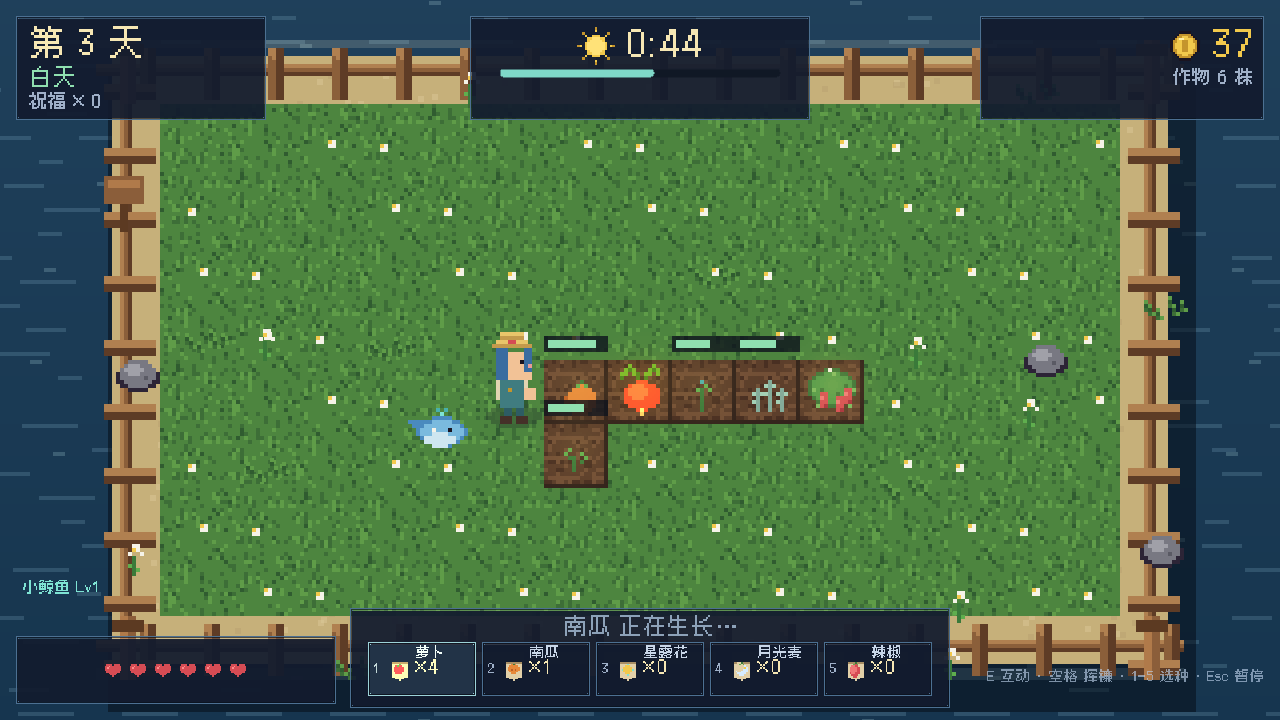
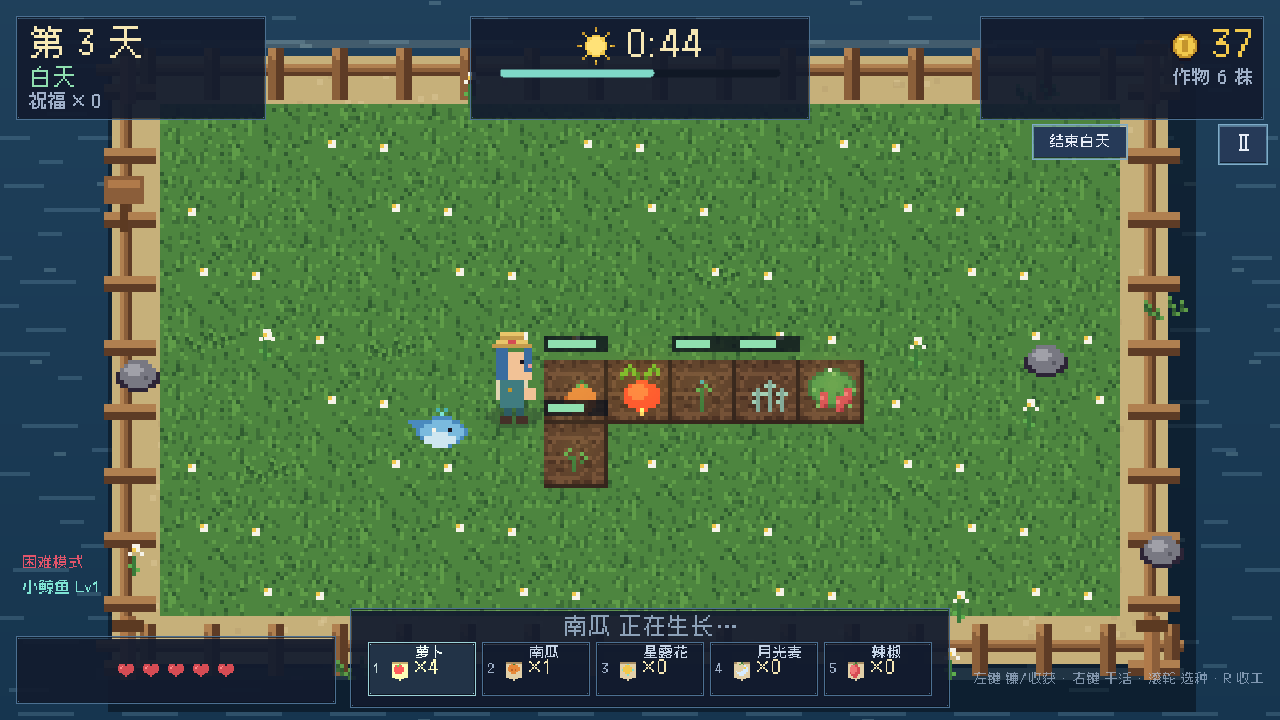
v2.3.0: difficulty modes, hard by default, stronger enemy scaling

diff --git a/README.md b/README.md
@@ -78,12 +78,26 @@
 - **右上「Ⅱ」**：暂停；系统返回键同样打开暂停/继续。
 - 游戏锁定横屏；16:9 内容居中，超宽屏两侧留黑边。
 
+## 难度
+
+标题界面的「难度」按钮循环切换，默认 **困难**：
+
+| 难度 | 初始生命 | 初始金币 | 敌人生命 | 敌人速度 | 夜潮数量 | 刷怪间隔 | 海鸥频率 |
+| --- | --- | --- | --- | --- | --- | --- | --- |
+| 休闲 | 7 | 22 | ×0.90 | ×0.95 | ×0.85 | ×1.15 | ×1.30 |
+| 标准 | 6 | 18 | ×1.00 | ×1.00 | ×1.00 | ×1.00 | ×1.00 |
+| 困难 | 5 | 12 | ×1.35 | ×1.30 | ×1.45 | ×0.75 | ×0.65 |
+
+- 敌人速度还会随天数增长（每天 +4.5%），困难模式的无敌帧也从 0.9s 缩到约 0.59s。
+- 困难模式普通怪出生时额外 +5% 精英概率；Boss 同样吃生命/速度倍率。
+- 难度写在存档设置里；一局开始后不能改，回到标题再切。
+
 ## 下载
 
 到 [Releases](https://github.com/ElectLive/whale-fall-farm/releases) 下载最新版：
 
-- Windows：`WhaleFallFarm-v2.2.0-win64.zip` — 解压双击 `WhaleFallFarm.exe`，绿色免安装，存档在 exe 旁边。
-- Android：`WhaleFallFarm-v2.2.0-android.apk` — Android 7.0+ / arm64，允许「安装未知来源应用」即可安装。APK 使用调试证书签名，适合直接安装试玩，不适合上架应用商店。
+- Windows：`WhaleFallFarm-v2.3.0-win64.zip` — 解压双击 `WhaleFallFarm.exe`，绿色免安装，存档在 exe 旁边。
+- Android：`WhaleFallFarm-v2.3.0-android.apk` — Android 7.0+ / arm64，允许「安装未知来源应用」即可安装。APK 使用调试证书签名，适合直接安装试玩，不适合上架应用商店。
 
 ## 从源码运行
 
@@ -128,7 +142,7 @@ python tools/gen_audio.py   # 4 首循环 BGM + 17 个音效 + 1 条雨声（需
 
 ```bash
 # 无头逻辑测试：种田、昼夜、商店、祝福、Boss、无尽、天气、移动端触控、存档
-Godot --headless --path . -- --selftest     # 82/82 PASS
+Godot --headless --path . -- --selftest     # 85/85 PASS
 
 # 实时冒烟测试：真的种一轮、传送到怪身边砍死几只、进入黎明
 Godot --headless --path . -- --smoke
@@ -193,6 +207,7 @@ docs/
 - **v2.0.0** — 20 次更新完成：小鲸鱼等级与喂养成长、第二张地图「雾港」、移动端粒子降级/FPS 上限/存档版本迁移、最终平衡（白天 80 秒）与完整文档。
 - **v2.1.0** — 鼠标交互重做：左键点地移动/点田干活、右键挥镰、滚轮选种、悬停高亮与操作提示、点击落点圆环、HUD 暂停按钮；左键不再误触攻击。
 - **v2.2.0** — 左键攻击/收获，右键移动/松土/播种/浇水；白天新增偷菜海鸥、贝壳/海星采集、R/「结束白天」提前收工（作物按剩余时间生长）。
+- **v2.3.0** — 三档难度（默认困难）：困难模式敌人生命/速度/数量全面上调、刷怪更快、海鸥更频繁、初始 5 血 12 金、无敌帧更短；标题界面可切。
 
 ## 20 次更新记录
 

diff --git a/CHANGELOG.md b/CHANGELOG.md
@@ -3,6 +3,21 @@
 All notable changes to Whale Fall Farm are documented here.
 Format follows [Keep a Changelog](https://keepachangelog.com/); versions use semver.
 
+## v2.3.0 — 2026-10-30
+
+### Added
+
+- **Three difficulty levels** on the title screen: 休闲 / 标准 / 困难, persisted in save settings. Default is **困难**.
+- HUD bottom-left difficulty label; title difficulty button and hint.
+- Hard mode tuning: 5 HP, 12 starting gold, enemy HP ×1.35, speed ×1.30, wave count ×1.45, spawn interval ×0.75, gull frequency ×0.65, invulnerability ×0.65, extra +5% elite chance.
+
+### Changed
+
+- Enemy speed now scales with day (+4.5% per day) on all difficulties.
+- Starting gold and HP come from the chosen difficulty instead of fixed 18/6.
+- Night plans are scaled by difficulty after construction.
+- Selftest covers difficulty HP and wave scaling.
+
 ## v2.2.0 — 2026-10-30
 
 ### Changed
@@ -203,7 +218,8 @@ Format follows [Keep a Changelog](https://keepachangelog.com/); versions use sem
 - Fully procedural pixel art (Pillow), chiptune music and SFX (numpy), Cubic 11 font.
 - Headless self-test (`--selftest`), real-time smoke test (`--smoke`), screenshot tooling.
 
-[Unreleased]: https://github.com/ElectLive/whale-fall-farm/compare/v2.2.0...main
+[Unreleased]: https://github.com/ElectLive/whale-fall-farm/compare/v2.3.0...main
+[v2.3.0]: https://github.com/ElectLive/whale-fall-farm/releases/tag/v2.3.0
 [v2.2.0]: https://github.com/ElectLive/whale-fall-farm/releases/tag/v2.2.0
 [v2.1.0]: https://github.com/ElectLive/whale-fall-farm/releases/tag/v2.1.0
 [v2.0.0]: https://github.com/ElectLive/whale-fall-farm/releases/tag/v2.0.0

diff --git a/docs/design.md b/docs/design.md
@@ -112,6 +112,20 @@
 - 震屏关：`shake()` 直接返回；闪光弱化：受击红框 0.12（原 0.35），闪电 0.20（原 0.55）。
 - 自动瞄准：镰刀挥击前自动转向 90px 内最近的怪物，手机和键鼠通用。
 
+### 难度
+
+- 标题界面按钮循环：休闲 / 标准 / 困难，默认困难；存 `SaveGame.difficulty`，一局开始后锁死。
+- 倍率表（`GameData.diff_*`）：
+
+| 难度 | 初始生命 | 初始金币 | 敌人生命 | 敌人速度 | 夜潮数量 | 刷怪间隔 | 海鸥频率 | 无敌帧 | 精英加成 |
+| --- | --- | --- | --- | --- | --- | --- | --- | --- | --- |
+| 休闲 | 7 | 22 | 0.90 | 0.95 | 0.85 | 1.15 | 1.30 | 1.10 | 0 |
+| 标准 | 6 | 18 | 1.00 | 1.00 | 1.00 | 1.00 | 1.00 | 1.00 | 0 |
+| 困难 | 5 | 12 | 1.35 | 1.30 | 1.45 | 0.75 | 0.65 | 0.65 | +5% |
+
+- 敌人速度还乘 `1 + 4.5% × (day-1)`；夜潮数量在 `night_plan` 构造完后统一乘难度系数并向上取整。
+- 难度只影响战斗/经济压力，不改作物价格、天气概率和祝福池。
+
 ### 鼠标交互
 
 - **左键 = 攻击/收获**：点成熟作物会走到格子旁收获；点其他位置朝鼠标挥镰；按住连续攻击。

diff --git a/docs/devlog.md b/docs/devlog.md
@@ -1,5 +1,21 @@
 # 开发日志
 
+## v2.3.0 — 2026-10-30
+
+### 内容
+
+- **三档难度**：标题界面「难度：休闲/标准/困难」按钮，默认困难；写入存档设置，回到标题可切。
+- **困难数值**：初始 5 血 / 12 金；敌人生命 ×1.35、速度 ×1.30、夜潮数量 ×1.45、刷怪间隔 ×0.75、
+  海鸥频率 ×0.65、无敌帧 ×0.65、精英概率 +5%。
+- **全局压力**：敌人速度随天数 +4.5%/天；Boss 同样吃生命/速度倍率。
+- HUD 左下显示当前难度；标题界面按钮旁有「敌人强度 / 夜潮密度」提示。
+
+### 验证记录
+
+- `--selftest`：**85/85 PASS**（困难生命倍率、夜潮数量更多、困难 5 血 12 金、标准模式起始 18 金）。
+- 截图：title（难度按钮）、day（困难模式标签、5 心、14 金）。
+- 版本 2.3.0，Android versionCode 11。
+
 ## v2.2.0 — 2026-10-30
 
 ### 内容

diff --git a/docs/updates20.md b/docs/updates20.md
@@ -50,3 +50,4 @@
 
 - **v2.1.0（2026-10-30）**：鼠标交互重做——左键点地移动/点田干活、右键挥镰、滚轮选种、悬停高亮与操作提示、点击落点圆环、HUD 暂停按钮。20 次计划之外的体验补强。
 - **v2.2.0（2026-10-30）**：左键攻击/收获、右键移动/放置；白天偷菜海鸥、贝壳/海星采集、R/「结束白天」提前收工（作物按剩余时间生长）。
+- **v2.3.0（2026-10-30）**：三档难度（默认困难）；敌人生命/速度/数量、刷怪间隔、海鸥频率、初始血量金币全面上调；HUD/标题显示难度。
